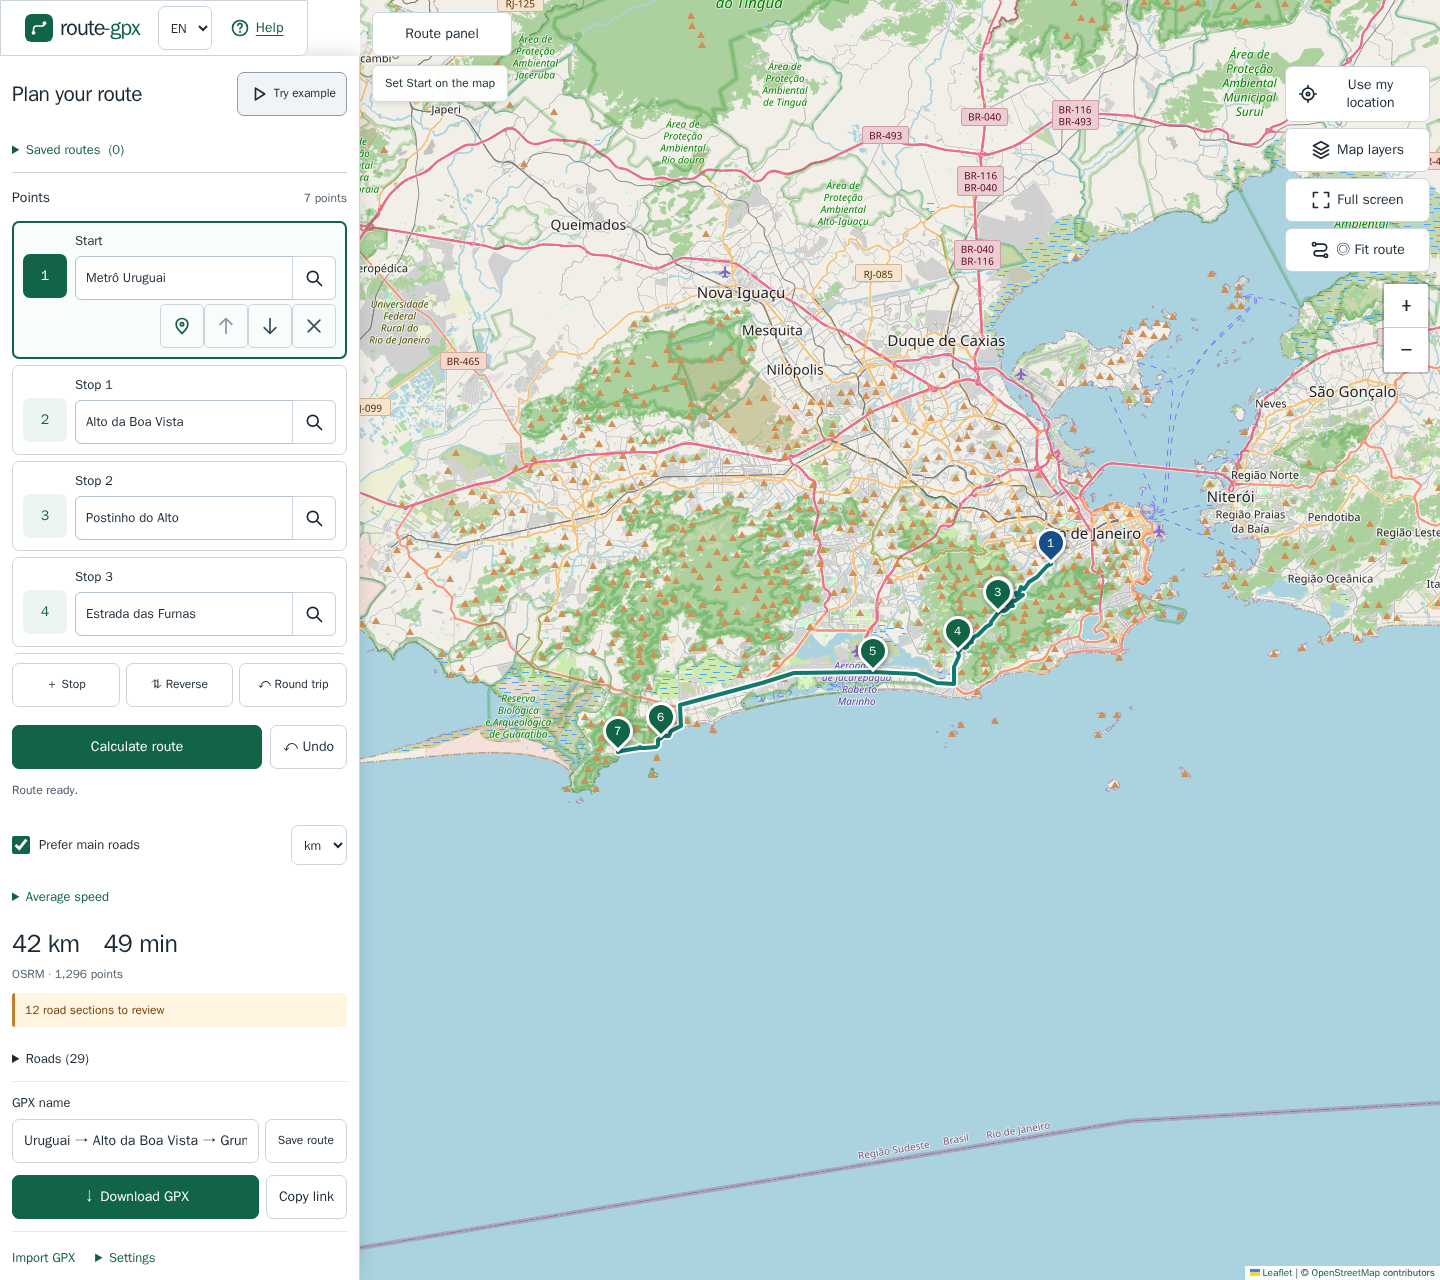
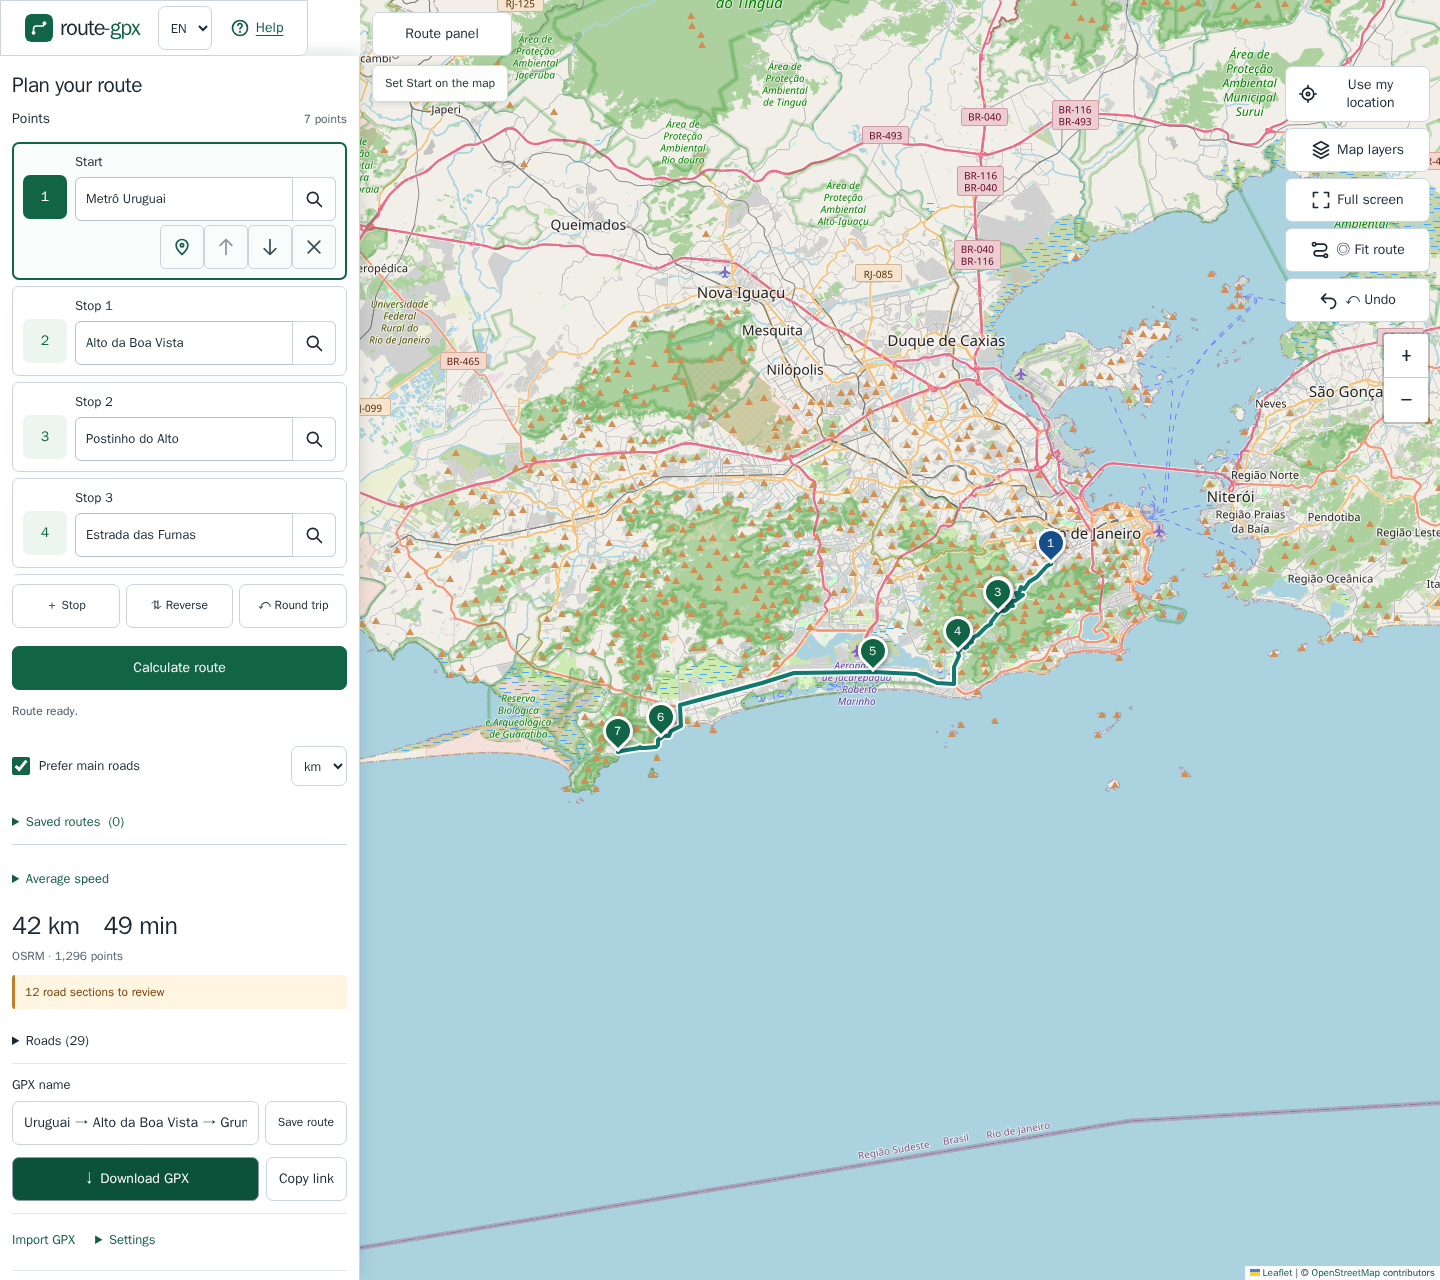
Update mobile guidance and acceptance screenshots

Changed region(s): [[0.0, 0.0625, 0.25, 1.0], [0.875, 0.2188, 1.0, 0.3438], [0.1875, 0.0625, 0.25, 0.0938]]

diff --git a/help.html b/help.html
@@ -93,9 +93,10 @@
         </p>
         <p>
           On small screens, the right column contains location, layers, full
-          screen, fit route and zoom icons. Each has a tooltip and accessible
-          name. The header Help icon opens these instructions; address fields
-          use a search icon, and the pin icon selects the point on the map.
+          screen, fit route, undo and zoom icons. Each has a tooltip and
+          accessible name. The header Help icon opens these instructions;
+          address fields use a search icon, and the pin icon selects the point
+          on the map.
         </p>
         <h2>Map layers</h2>
         <p>
@@ -172,11 +173,12 @@
         <h2>Saved routes</h2>
         <p>
           Enter a GPX name and press Save route. Routes are never saved
-          automatically. The same name updates an existing route. Saved routes
-          lets you open the original geometry, download GPX, delete entries, or
-          export and restore a backup. These files stay in this browser profile,
-          without cloud sync. Clearing browser data can remove them; keep a
-          backup. Matching names in a backup keep your existing saved route.
+          automatically. The same name updates an existing route. Saved routes,
+          above Average speed, lets you open the original geometry, download
+          GPX, delete entries, or export and restore a backup. These files stay
+          in this browser profile, without cloud sync. Clearing browser data can
+          remove them; keep a backup. Matching names in a backup keep your
+          existing saved route.
         </p>
         <h2>GPX, import and sharing</h2>
         <p>
@@ -265,10 +267,10 @@
         </p>
         <p>
           Em telas pequenas, a coluna à direita contém ícones de localização,
-          camadas, tela cheia, ver rota e zoom. Cada um tem dica e nome
-          acessível. O ícone de Ajuda no cabeçalho abre estas instruções; os
-          campos de endereço usam uma lupa, e o ícone de pin seleciona o ponto
-          no mapa.
+          camadas, tela cheia, ver rota, desfazer e zoom. Cada um tem dica e
+          nome acessível. O ícone de Ajuda no cabeçalho abre estas instruções;
+          os campos de endereço usam uma lupa, e o ícone de pin seleciona o
+          ponto no mapa.
         </p>
         <h2>Camadas do mapa</h2>
         <p>
@@ -350,11 +352,11 @@
         <p>
           Preencha Nome do GPX e toque em Salvar rota. Nenhuma rota é salva
           automaticamente. Um nome existente atualiza a entrada. Em Rotas
-          salvas, reabra a geometria original, baixe o GPX, exclua entradas ou
-          exporte e restaure um backup. Os arquivos ficam neste perfil do
-          navegador, sem nuvem. Limpar os dados do navegador pode apagá-los;
-          guarde um backup. Nomes iguais no backup mantêm a rota que já está
-          salva.
+          salvas, acima de Velocidade média, reabra a geometria original, baixe
+          o GPX, exclua entradas ou exporte e restaure um backup. Os arquivos
+          ficam neste perfil do navegador, sem nuvem. Limpar os dados do
+          navegador pode apagá-los; guarde um backup. Nomes iguais no backup
+          mantêm a rota que já está salva.
         </p>
         <h2>GPX, importação e links</h2>
         <p>

diff --git a/README.pt-BR.md b/README.pt-BR.md
@@ -19,15 +19,15 @@ Um aplicativo estático feito com HTML, TypeScript, Vite e Leaflet. Não exige c
 
 ## Início rápido
 
-1. Digite endereços ou `latitude, longitude` em **Início** e **Destino**, ou clique no mapa no desktop. Em telas de toque, segure um ponto do mapa por cerca de meio segundo e escolha sua função. Coordenadas são aplicadas automaticamente; para endereços, pressione **Buscar** ou Enter e selecione um resultado. **Ver exemplo** carrega um itinerário de exemplo. Surgem sugestões ao digitar; setas e Enter selecionam uma. Sem sugestão selecionada, **Buscar** ou Enter consulta explicitamente o Nominatim.
+1. Digite endereços ou `latitude, longitude` em **Início** e **Destino**, ou clique no mapa no desktop. Em telas de toque, segure um ponto do mapa por cerca de meio segundo e escolha sua função. Coordenadas são aplicadas automaticamente; para endereços, pressione **Buscar** ou Enter e selecione um resultado. Surgem sugestões ao digitar; setas e Enter selecionam uma. Sem sugestão selecionada, **Buscar** ou Enter consulta explicitamente o Nominatim.
 2. Adicione paradas e ajuste os pontos. Confira a rota calculada, a distância e a duração.
 3. Se desejar, preencha **Nome do GPX** e pressione **Baixar GPX**. O nome vale para o arquivo e o trajeto; quando vazio, são usados os pontos de início e destino.
 
-Em telas pequenas, as ferramentas do mapa usam uma coluna de ícones junto ao zoom. Dicas e nomes acessíveis identificam cada ação. Os campos de endereço incluem uma lupa; o ícone de pin seleciona um ponto no mapa. O ícone de Ajuda explica os gestos de toque.
+Em telas pequenas, as ferramentas do mapa usam uma coluna de ícones, incluindo Desfazer, junto ao zoom. Dicas e nomes acessíveis identificam cada ação. Os campos de endereço incluem uma lupa; o ícone de pin seleciona um ponto no mapa. O ícone de Ajuda explica os gestos de toque. Rotas salvas fica acima de Velocidade média, após os controles de edição.
 
 Quando o navegador oferece suporte, **Compartilhar GPX** abre o menu de compartilhamento do aparelho com o mesmo arquivo GPX nomeado; cancelar não mostra erro. **Baixar GPX** continua disponível. O clique direito no desktop (ou Shift+F10 com o mapa em foco) abre o menu de pontos. Apenas o desenho da rota é simplificado para o zoom atual; a geometria do GPX e das rotas salvas e importadas permanece completa.
 
-Para instruções passo a passo, consulte a [página de Ajuda](https://t00ls-dev.github.io/route-gpx/help.html). Há também um [GPX de exemplo](docs/example.gpx).
+Para instruções passo a passo, consulte a [página de Ajuda](https://t00ls-dev.github.io/route-gpx/help.html).
 
 ## Comportamentos importantes
 

diff --git a/README.md b/README.md
@@ -19,15 +19,15 @@ A static application built with HTML, TypeScript, Vite and Leaflet. No account, 
 
 ## Quick start
 
-1. Enter addresses or `latitude, longitude` in **Start** and **Destination**, or click the map on desktop. On touch screens, hold a map point for about half a second and choose its role. Coordinates apply automatically; for addresses, press **Search** or Enter and select a result. **Try example** loads a sample itinerary. Suggestions appear while typing; arrows and Enter select one. Without a selected suggestion, **Search** or Enter uses Nominatim explicitly.
+1. Enter addresses or `latitude, longitude` in **Start** and **Destination**, or click the map on desktop. On touch screens, hold a map point for about half a second and choose its role. Coordinates apply automatically; for addresses, press **Search** or Enter and select a result. Suggestions appear while typing; arrows and Enter select one. Without a selected suggestion, **Search** or Enter uses Nominatim explicitly.
 2. Add stops and adjust the points. Review the calculated route, distance and duration.
 3. Optionally enter a **GPX name**, then press **Download GPX**. The name applies to both the file and track; when blank, the endpoints are used.
 
-On small screens, map tools use a single column of icon buttons beside zoom. Their tooltips and accessible names identify each action. Address fields include a search icon; the pin icon selects a point on the map. The Help icon explains touch gestures.
+On small screens, map tools use a single column of icon buttons, including Undo, beside zoom. Their tooltips and accessible names identify each action. Address fields include a search icon; the pin icon selects a point on the map. The Help icon explains touch gestures. Saved routes sits above Average speed, after the editing controls.
 
 When supported by your browser, **Share GPX** opens the device share menu with the same named GPX file; cancelling is silent. **Download GPX** remains available. A desktop right-click (or Shift+F10 on the focused map) opens the point menu. Route drawing is simplified for the current zoom only; GPX, saved and imported geometry remain complete.
 
-For step-by-step instructions, use the [Help page](https://t00ls-dev.github.io/route-gpx/help.html). A [sample GPX](docs/example.gpx) is also available.
+For step-by-step instructions, use the [Help page](https://t00ls-dev.github.io/route-gpx/help.html).
 
 ## Important behavior
 
